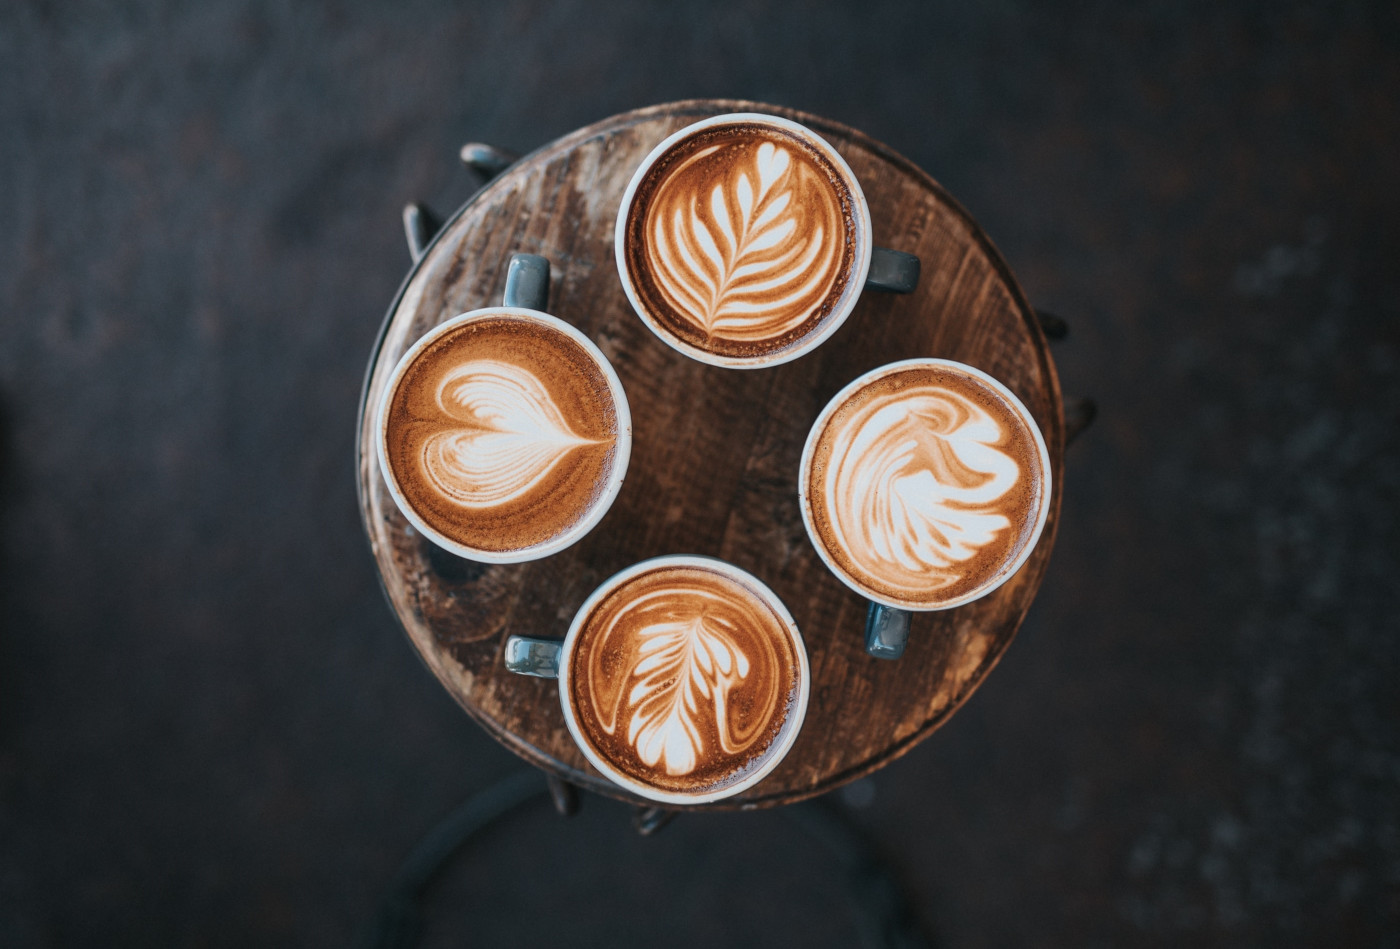
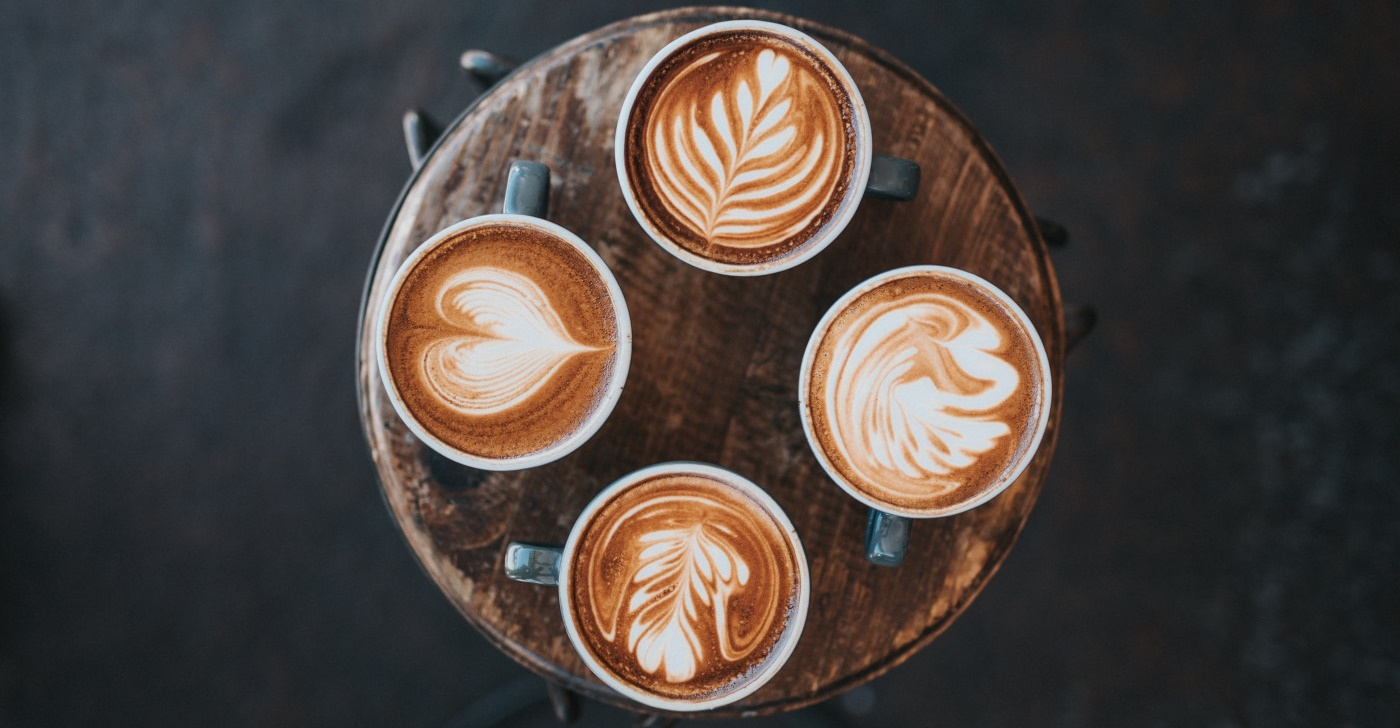
Update background size

Changed region(s): [[0.2457, 0.0, 0.7679, 0.9973]]

diff --git a/css/our-place.css b/css/our-place.css
@@ -1,6 +1,7 @@
 .our-place {
     background-image: url("../img/place.jpg");
     position: relative;
+    background-size: cover;
     background-repeat: no-repeat;
     height: 100vh;
     width: 100%;

diff --git a/css/main-contact.css b/css/main-contact.css
@@ -5,7 +5,7 @@
 
 .calendar {
     background-image: url("../img/days.jpg");
-    background-size:cover ;
+    background-size: cover;
     height: 500px;
     width: 50vw;
     background-color: grey;

diff --git a/css/wrapper-menu.css b/css/wrapper-menu.css
@@ -1,7 +1,6 @@
 .wrapper-menu {
     display: flex;
-    height: 850px;
-    max-width: 1363px;
+    height: 100vh;
     flex-wrap: wrap;
     margin-left: auto;
     margin-right: auto;
